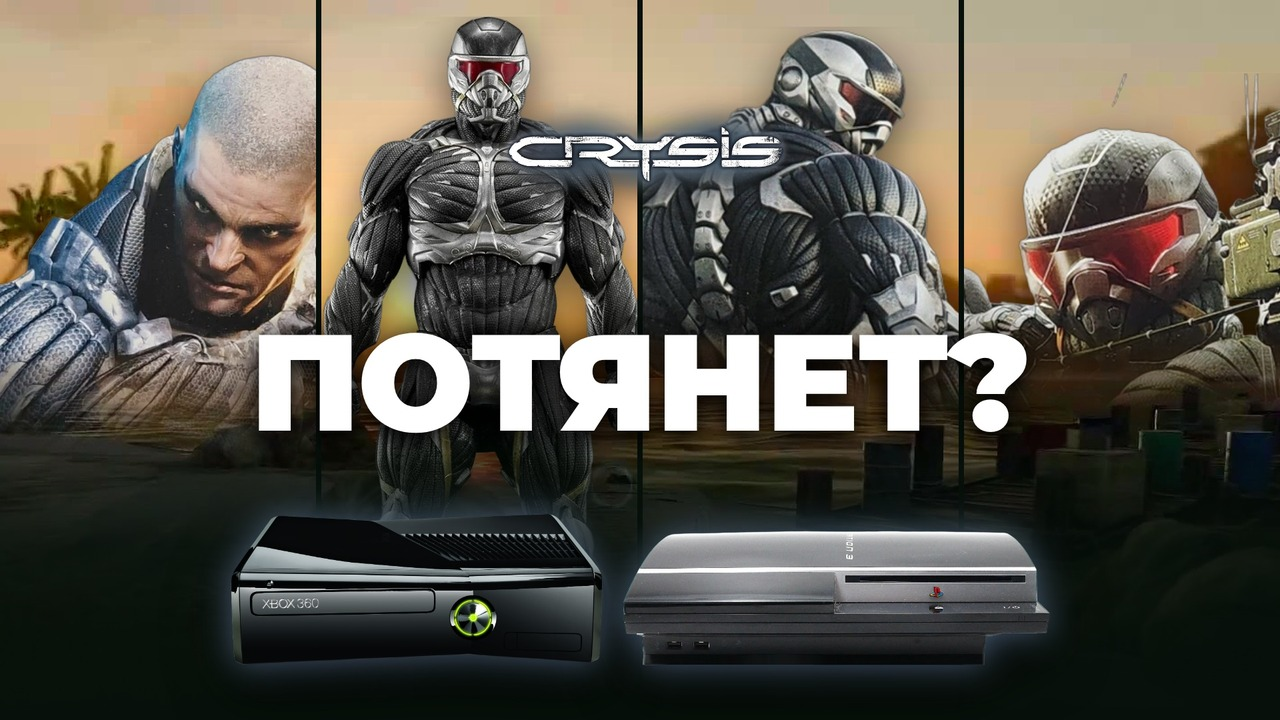
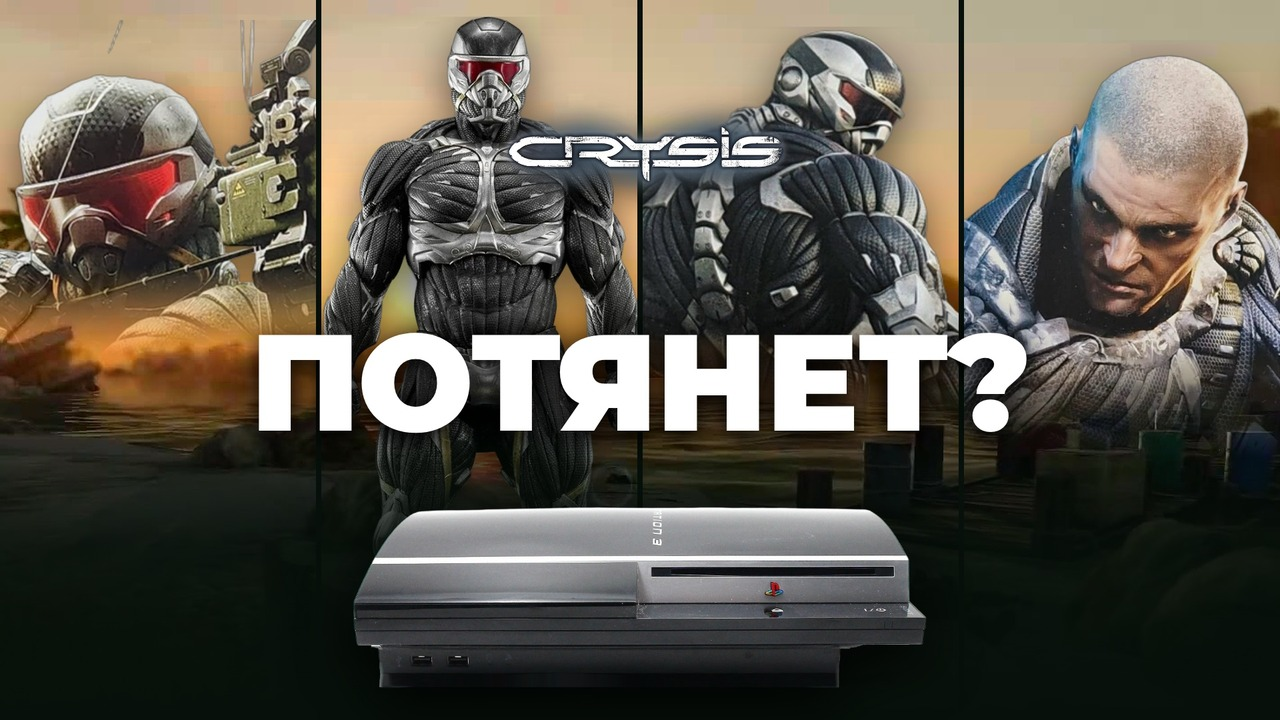
Crysis thumbnail: swap corner characters, Prophet higher, PS3 only without glow
Claude-Session: https://claude.ai/code/session_01RHFrx85Hg5RpkQEmnVQQfw

Changed region(s): [[0.1562, 0.6722, 0.8438, 0.9472], [0.0, 0.0306, 0.25, 0.6111], [0.75, 0.0611, 1.0, 0.6111]]

diff --git a/crysis/thumb/thumb4.html b/crysis/thumb/thumb4.html
@@ -11,15 +11,15 @@ html,body{width:1920px;height:1080px;overflow:hidden;background:#07100a;font-fam
 .t{position:absolute;left:0;width:1920px;text-align:center;top:470px;font-weight:900;font-size:205px;color:#fff;letter-spacing:-.01em;line-height:1;text-shadow:0 0 50px rgba(0,0,0,.75),0 12px 30px rgba(0,0,0,.7)}
 .logo{position:absolute;left:50%;transform:translateX(-50%);top:150px;width:440px;filter:drop-shadow(0 0 4px rgba(255,255,255,.7)) drop-shadow(0 10px 25px rgba(0,0,0,.9))}
 .cons{position:absolute;left:0;width:1920px;top:770px;display:flex;justify-content:center;align-items:flex-end;gap:30px}
-.cons img{filter:drop-shadow(0 0 26px rgba(160,200,255,.45)) drop-shadow(0 30px 40px rgba(0,0,0,.85))}
+.ps3{position:absolute;left:50%;transform:translateX(-50%);top:760px;width:860px;filter:drop-shadow(0 30px 40px rgba(0,0,0,.8))}
 </style></head><body>
-<div class="p" style="left:0px"><div class="bg" style="background-position:-0px 0"></div><img id="i1" src="/crysis/cut/psycho.png" style="top:60px;width:900px;margin-left:120px"></div>
+<div class="p" style="left:0px"><div class="bg" style="background-position:-0px 0"></div><img id="i1" src="/crysis/cut/prophet.png" style="top:30px;width:980px;margin-left:60px"></div>
 <div class="p" style="left:482px"><div class="bg" style="background-position:-482px 0"></div><img id="i2" src="/crysis/cut/nanosuit_full.png" style="top:25px;width:500px;margin-left:0px"></div>
 <div class="p" style="left:964px"><div class="bg" style="background-position:-964px 0"></div><img id="i3" src="/crysis/cut/alcatraz.png" style="top:40px;width:720px;margin-left:10px"></div>
-<div class="p" style="left:1446px"><div class="bg" style="background-position:-1446px 0"></div><img id="i4" src="/crysis/cut/prophet.png" style="top:110px;width:980px;margin-left:120px"></div>
+<div class="p" style="left:1446px"><div class="bg" style="background-position:-1446px 0"></div><img id="i4" src="/crysis/cut/psycho.png" style="top:60px;width:900px;margin-left:20px"></div>
 <div class="shade"></div>
 <img class="logo" id="logo" src="/crysis/cut/crysis_logo.png">
 <div class="t" id="t">ПОТЯНЕТ?</div>
-<div class="cons"><img src="/crysis/cut/xbox360.png" style="width:560px"><img src="/crysis/cut/ps3.png" style="width:640px"></div>
+<img class="ps3" src="/crysis/cut/ps3.png">
 <script>const q=new URLSearchParams(location.search);if(q.get('t'))document.getElementById('t').innerHTML=q.get('t');</script>
 </body></html>
